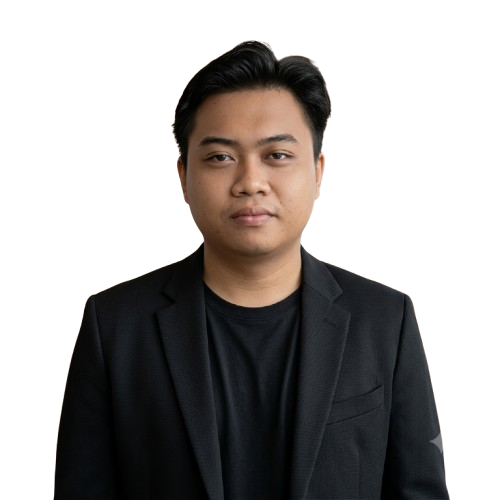
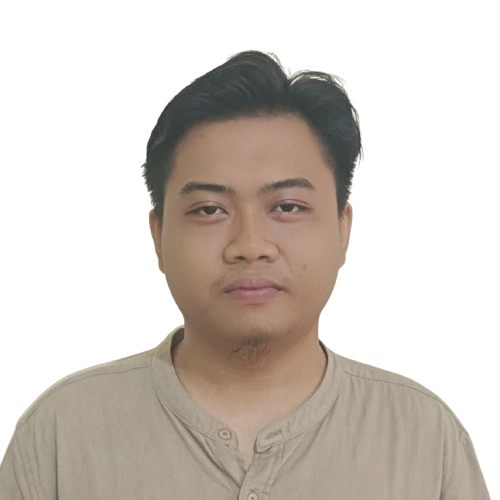
Update:add embed link

diff --git a/app/opengraph-image.tsx b/app/opengraph-image.tsx
@@ -1,0 +1,89 @@
+import { ImageResponse } from "next/og";
+
+export const runtime = "edge";
+export const alt = "Syeddinul Faiz Caniggia — Computer Science Student";
+export const size = { width: 1200, height: 630 };
+export const contentType = "image/png";
+
+export default async function Image() {
+  return new ImageResponse(
+    (
+      <div
+        style={{
+          width: "100%",
+          height: "100%",
+          display: "flex",
+          flexDirection: "column",
+          backgroundColor: "#1d2021",
+          padding: "64px",
+        }}
+      >
+        {/* terminal card */}
+        <div
+          style={{
+            display: "flex",
+            flexDirection: "column",
+            width: "100%",
+            height: "100%",
+            borderRadius: "12px",
+            border: "1px solid #3c3836",
+            backgroundColor: "rgba(60,56,54,0.7)",
+            overflow: "hidden",
+          }}
+        >
+          {/* title bar */}
+          <div
+            style={{
+              display: "flex",
+              alignItems: "center",
+              gap: "10px",
+              padding: "20px 28px",
+              borderBottom: "1px solid #3c3836",
+              backgroundColor: "#1d2021",
+            }}
+          >
+            <div style={{ width: 16, height: 16, borderRadius: 999, backgroundColor: "#fb4934" }} />
+            <div style={{ width: 16, height: 16, borderRadius: 999, backgroundColor: "#fabd2f" }} />
+            <div style={{ width: 16, height: 16, borderRadius: 999, backgroundColor: "#b8bb26" }} />
+            <div style={{ marginLeft: 16, fontSize: 22, color: "#a89984" }}>
+              faiz@portfolio: ~
+            </div>
+          </div>
+
+          {/* body */}
+          <div
+            style={{
+              display: "flex",
+              flexDirection: "column",
+              padding: "56px 64px",
+              flex: 1,
+              justifyContent: "center",
+            }}
+          >
+            <div style={{ fontSize: 28, color: "#a89984", display: "flex" }}>
+              ~ $ whoami
+            </div>
+            <div
+              style={{
+                fontSize: 64,
+                color: "#fabd2f",
+                fontWeight: 700,
+                marginTop: 12,
+                display: "flex",
+              }}
+            >
+              Syeddinul Faiz Caniggia
+            </div>
+            <div style={{ fontSize: 30, color: "#d5c4a1", marginTop: 28, display: "flex" }}>
+              Computer Science student — Universitas Pelita Bangsa
+            </div>
+            <div style={{ fontSize: 26, color: "#8ec07c", marginTop: 16, display: "flex" }}>
+              Full-stack · IoT · Systems
+            </div>
+          </div>
+        </div>
+      </div>
+    ),
+    { ...size }
+  );
+}

diff --git a/app/layout.tsx b/app/layout.tsx
@@ -9,10 +9,29 @@ import "@fontsource/ibm-plex-sans/600.css";
 import "@fontsource/ibm-plex-sans/700.css";
 import "./globals.css";
 
+const SITE_URL = "https://faiz-portfolio.vercel.app"; // update after you know your real Vercel/domain URL
+const TITLE = "Syeddinul Faiz Caniggia — Computer Science Student";
+const DESCRIPTION =
+  "Portfolio of Syeddinul Faiz Caniggia — full-stack, IoT, and systems projects.";
+
 export const metadata: Metadata = {
-  title: "Syeddinul Faiz Caniggia — Computer Science Student",
-  description:
-    "Portfolio of Syeddinul Faiz Caniggia — full-stack, IoT, and systems projects.",
+  metadataBase: new URL(SITE_URL),
+  title: TITLE,
+  description: DESCRIPTION,
+  openGraph: {
+    title: TITLE,
+    description: DESCRIPTION,
+    url: SITE_URL,
+    siteName: "faiz@portfolio",
+    type: "website",
+    // images intentionally omitted here — /app/opengraph-image.tsx
+    // generates it automatically and Next.js picks it up on its own.
+  },
+  twitter: {
+    card: "summary_large_image",
+    title: TITLE,
+    description: DESCRIPTION,
+  },
 };
 
 export default function RootLayout({